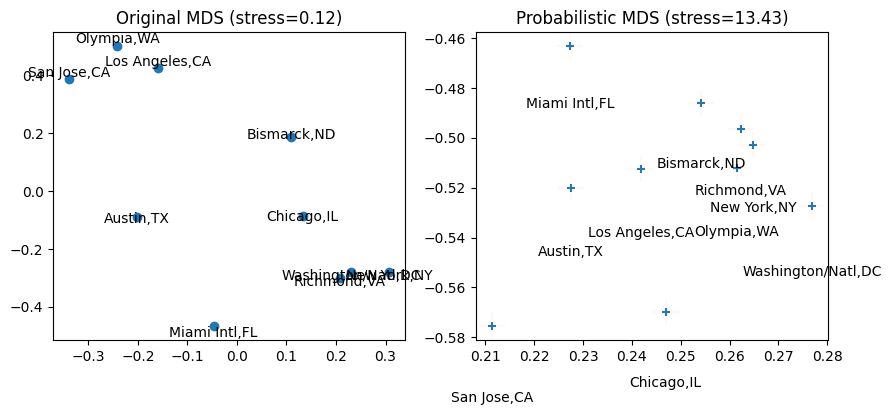
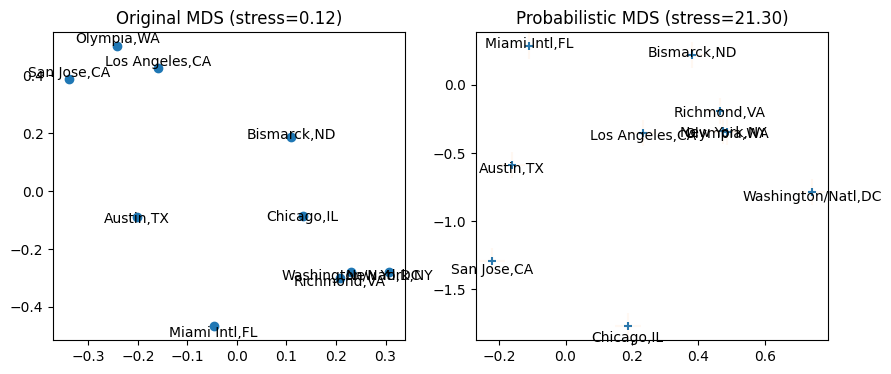
Running version of MDS with jax

diff --git a/pmds/mds_jax.py b/pmds/mds_jax.py
@@ -9,13 +9,46 @@ from scipy.spatial.distance import pdist
 from .utils import chunks
 
 
+# minimize diff between distances
+def loss(params, d):
+    z_i, z_j = params
+    d_ij = jnp.linalg.norm(z_i - z_j)
+    return 0.5 * (d - d_ij) ** 2
+
+
+loss_func = jax.jit(loss)
+
+
+def test_grad_loss(n=1):
+    z = np.random.randn(n + 1, 2)
+    d = np.random.randn(n)
+    for z_i, z_j, d_i in zip(z[1:], z[:-1], d):
+        check_grads(loss_func, [[z_i, z_j], d_i], order=1, rtol=0.005, atol=0.005)
+
+
+# test_grad_loss(n=10)
+
+
+# loss function in batch
+loss_and_grads_batched = jax.jit(
+    jax.vmap(
+        # take gradient w.r.t. the 1st, 2nd, 3rd and 4th params
+        jax.jit(jax.value_and_grad(loss_func, argnums=0)),
+        # parallel for all input params
+        in_axes=(0, 0),
+        # scalar output
+        out_axes=0,
+    )
+)
+
+
 def mds(
     p_dists,
     n_samples,
     n_components,
     init_Z=None,
     random_state=42,
-    lr=1.0,
+    lr=0.001,
     batch_size=None,
     n_epochs=10,
 ):
@@ -36,49 +69,26 @@ def mds(
     else:
         dists_with_indices = p_dists
 
-    # minimize diff between distances
-    def loss(z_i, z_j, d):
-        d_ij = jnp.linalg.norm(z_i - z_j)
-        return 0.5 * (d - d_ij) ** 2
-
-    check_grads(loss, [Z[0], Z[1], 1.0], order=1)
-
-    # loss function in batch
-    loss_and_grads_batched = jax.jit(
-        jax.vmap(
-            # take gradient w.r.t. the 1st, 2nd, 3rd and 4th params
-            jax.value_and_grad(loss, argnums=[0, 1]),
-            # parallel for all input params
-            in_axes=(0, 0, 0),
-            # scalar output
-            out_axes=0,
-        )
-    )
-
-    loss = 0.0
+    # n_steps = int(len(p_dists) / batch_size + 0.5)
     for epoch in range(n_epochs):
+        loss = 0.0
         for i, batch in enumerate(chunks(dists_with_indices, batch_size, shuffle=True)):
+            # step = epoch * n_steps + i
+
             # unpatch pairwise distances and indices of points in each pair
             dists, pair_indices = list(zip(*batch))
             i0, i1 = list(zip(*pair_indices))
             i0, i1 = list(i0), list(i1)
 
-            Z_i, Z_j = Z[i0], Z[i1]
-            loss_batch, grads = loss_and_grads_batched(Z_i, Z_j, jnp.array(dists))
-
-            if jnp.any(jnp.isnan(loss_batch)):
-                raise ValueError(
-                    "NaN encountered in loss value."
-                    "Check if the `nc` params of X-square dist. are non-positive"
-                )
-            loss = jnp.mean(loss_batch)
-            print(epoch, loss)
+            params = Z[i0], Z[i1]
+            loss_batch, grads = loss_and_grads_batched(params, jnp.array(dists))
+            loss += jnp.mean(loss_batch)
 
             # update gradient
-            # grads_Z = jnp.concatenate((lr * grads[0], lr * grads[1]), axis=0)
-            Z = jax.ops.index_add(Z, i0, -lr * grads[0])
-            Z = jax.ops.index_add(Z, i1, -lr * grads[1])
-
+            grads_Z = jnp.concatenate(grads, axis=0)
+            Z = jax.ops.index_add(Z, i0 + i1, -lr * grads_Z / batch_size)
+        loss = float(loss / (i + 1))
+        print("[DEBUG] MDS-jax: ", epoch, loss)
     return Z
 
 

diff --git a/pmds/config.py b/pmds/config.py
@@ -13,6 +13,9 @@ pre_config = {
             std=True,  # standardize
             pca=None,
             fixed_points=[],
+            epochs_mds=20,
+            learning_rate_mds=2.5,
+            batch_size_mds=2000,
         ),
         "iris_mini": dict(
             dataset_name="iris",
@@ -24,6 +27,9 @@ pre_config = {
             random_state=42,
             std=True,  # standardize
             pca=None,
+            epochs_mds=20,
+            learning_rate_mds=5,
+            batch_size_mds=100,
         ),
         "digits": dict(
             dataset_name="digits",
@@ -35,6 +41,9 @@ pre_config = {
             random_state=42,
             std=False,  # digits already in [0, 1]
             pca=None,
+            epochs_mds=50,
+            learning_rate_mds=100,
+            batch_size_mds=4000,
         ),
         "digits_mini": dict(
             dataset_name="digits",
@@ -46,6 +55,9 @@ pre_config = {
             random_state=42,
             std=False,  # digits already in [0, 1]
             pca=None,
+            epochs_mds=50,
+            learning_rate_mds=22,
+            batch_size_mds=500,
         ),
         "wine": dict(
             dataset_name="wine",
@@ -96,12 +108,16 @@ pre_config = {
             n_samples=None,  # 10
             n_components=2,
             batch_size=0,
-            epochs=25,
+            epochs=5,
             learning_rate=1.0,
             random_state=42,
             std=False,
             pca=None,
             # fixed_points=[(6, 0.0, 0.0), (0, 0.5, -0.1), (5, 0.25, -0.8)],
+            ### params for MDS-jax
+            epochs_mds=10,
+            learning_rate_mds=10,
+            batch_size_mds=20,
         ),
         "qpcr": dict(
             dataset_name="qpcr",
@@ -113,6 +129,23 @@ pre_config = {
             random_state=42,
             std=False,
             pca=None,
+            epochs_mds=50,
+            learning_rate_mds=100,
+            batch_size_mds=5000,
+        ),
+        "qpcr_mini": dict(
+            dataset_name="qpcr",
+            n_samples=200,
+            n_components=2,
+            batch_size=0,
+            epochs=30,
+            learning_rate=250,
+            random_state=42,
+            std=False,
+            pca=None,
+            epochs_mds=50,
+            learning_rate_mds=100,
+            batch_size_mds=5000,
         ),
     }
 }

diff --git a/run_pmds.py b/run_pmds.py
@@ -7,7 +7,7 @@ from sklearn.manifold import MDS
 from scipy.spatial.distance import squareform
 
 from pmds.pmds import pmds
-from pmds.mds import mds
+from pmds.mds_jax import mds
 from pmds import score, plot, dataset, config
 
 
@@ -38,7 +38,14 @@ def run_pdms(D, N, args, labels=None):
     ).fit_transform(D_squareform)
 
     # MDS with jax
-    Z2 = mds(D, n_samples=N, n_components=args.n_components, lr=5e-3, n_epochs=20)
+    Z2 = mds(
+        D,
+        n_samples=N,
+        n_components=args.n_components,
+        lr=args.learning_rate_mds,
+        batch_size=args.batch_size_mds,
+        n_epochs=args.epochs_mds,
+    )
 
     # Probabilistic MDS with jax
     Z1, Z1_vars, losses = pmds(
